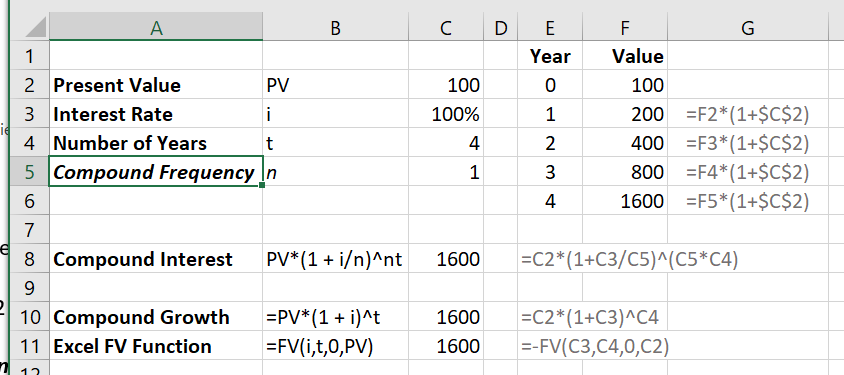
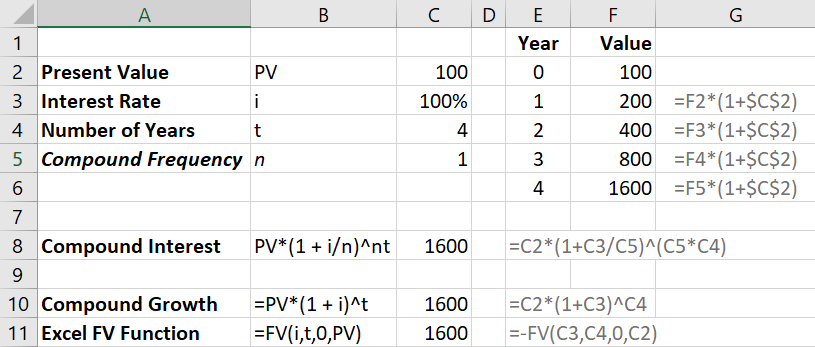
Various

diff --git a/Cheatsheets-C/Excel.md b/Cheatsheets-C/Excel.md
@@ -56,7 +56,7 @@ Will return 1 if visible, 0 otherwise.
 
 ## Compound Growth / Interest
 
-| <img src="/Cheatsheets-C/images/excel-compound-growth.png" width="562"> |
+| <img src="/Cheatsheets-C/images/excel-compound-growth.png" width="800"> |
 
 ## Bytes Size String to Number
 
@@ -146,4 +146,4 @@ Two functions, the first goes on row 1 column 11 (k) and creates the create tabl
 | CTRL +  | Show all formulas |
 
 <hr>
-<p class="pagedate">This page was generated by <a href=".">GitHub Pages</a>.  Page last modified: 22/12/14 16:45</p>
+<p class="pagedate">This page was generated by <a href=".">GitHub Pages</a>.  Page last modified: 22/12/14 16:52</p>

diff --git a/ShortcutKeys-S/Shortcut_Keys.md b/ShortcutKeys-S/Shortcut_Keys.md
@@ -225,4 +225,4 @@ layout: page-with-contents-list
 | `WIN-X` | Quick Link Menu |
 
 <hr>
-<p class="pagedate">This page was generated by <a href=".">GitHub Pages</a>.  Page last modified: 22/12/14 16:45</p>
+<p class="pagedate">This page was generated by <a href=".">GitHub Pages</a>.  Page last modified: 22/12/14 16:52</p>
